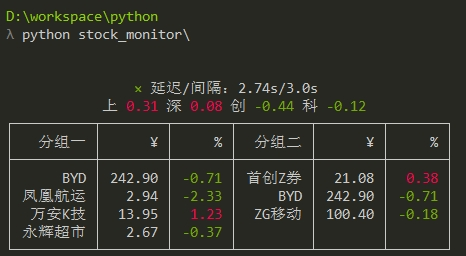
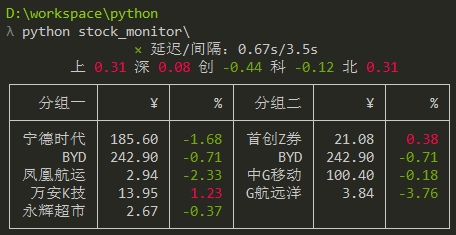
stock code verify

Changed region(s): [[0.0, 0.0298, 1.0, 0.983]]

diff --git a/__main__.py b/__main__.py
@@ -2,11 +2,13 @@ import os
 import json
 import time
 import datetime
+import traceback
 from rich.live import Live
 
 from models import *
 from parse import *
 from print import prepare_live_print, print_stocks
+import utils
 
 # load stocks.json
 def load_config_json() -> dict | None:
@@ -20,6 +22,7 @@ def load_config_json() -> dict | None:
   return None
 
 
+# check market is open or not
 def check_market_open(data_store: DataStore) -> datetime.datetime:
   now = datetime.datetime.today()
   if now.weekday() < 6 and now.hour in [9, 10, 11, 13, 14, 15]:
@@ -53,8 +56,11 @@ def main() -> None:
   else:
     data_store.stock_groups = parse_stock_groups_from_local(cfg)
 
-  for market_index_code in cfg["market_indices"]:
-    data_store.market_indices.stocks.append(Stock(market_index_code))
+  for code in cfg["market_indices"]:
+    if utils.verify_stock_code(code, is_market_index=True):
+      data_store.market_indices.stocks.append(Stock(code))
+    else:
+      print(f"bad stock code: {code}, ignore")
   
   data_store.all_stocks = data_store.market_indices.stocks.copy()
   stock_codes: list = list(map(lambda s: s.code, data_store.all_stocks))
@@ -66,17 +72,21 @@ def main() -> None:
       else:
         data_store.all_stocks.append(group.stocks[i])
         stock_codes.append(group.stocks[i].code)
-  stock_codes = ",".join(stock_codes)
   if len(stock_codes) <= 0:
     return
   
-  print("\n")
+  full_codes = ""
+  for code in stock_codes:
+    full_codes += utils.add_sh_sz_prefix(code) + ","
+  full_codes = full_codes[:-1]
+  # print(f"full_codes={full_codes}\n")
+
   live_print: Live = prepare_live_print()
   data_store.market_open = True
   while data_store.market_open:
       try:
           t_req_start = check_market_open(data_store)
-          stock_info_content = get_stock_infos(stock_codes, proxy)
+          stock_info_content = get_stock_infos(full_codes, proxy)
           if not stock_info_content:
             continue
 
@@ -86,14 +96,15 @@ def main() -> None:
           parse_stock_infos(cfg, data_store, stock_info_content)
           print_stocks(live_print, data_store)
           
-          t_next_req = datetime.datetime.fromtimestamp(
-            t_req_start.timestamp() + data_store.interval_seconds)
-          if t_req_end < t_next_req:
-            time.sleep((t_next_req - t_req_end).total_seconds())
+          if data_store.market_open:
+            t_next_req = datetime.datetime.fromtimestamp(
+              t_req_start.timestamp() + data_store.interval_seconds)
+            if t_req_end < t_next_req:
+              time.sleep((t_next_req - t_req_end).total_seconds())
       except KeyboardInterrupt:
         data_store.market_open = False
-      except Exception as e:
-        print(e)
+      except Exception:
+        traceback.print_exc()
         data_store.market_open = False
 
 # run

diff --git a/utils.py b/utils.py
@@ -1,0 +1,26 @@
+import re
+
+stock_code_pattern = re.compile(r'^(300[\d]{3}|688[\d]{3}|60[\d]{4}|00[\d]{4}|8[\d]{5})$')
+
+# verify stock code is valid or not
+def verify_stock_code(stock_code: str, is_market_index: bool = False) -> bool:
+  if is_market_index:
+    return len(stock_code) == 8
+  if len(stock_code) == 8:
+    if stock_code.startswith("sh") or stock_code.startswith("sz") or stock_code.startswith("bj"):
+      return verify_stock_code(stock_code[2:])
+    else:
+      return False
+  if len(stock_code) == 6:
+    return stock_code_pattern.match(stock_code)
+  return False
+
+# add sh/sz prefix to stock code
+def add_sh_sz_prefix(stock_code: str) -> str:
+  if stock_code.startswith("6"):
+    return "sh" + stock_code
+  elif stock_code.startswith("0") or stock_code.startswith("3"):
+    return "sz" + stock_code
+  elif stock_code.startswith("8"):
+    return "bj" + stock_code
+  return stock_code

diff --git a/print.py b/print.py
@@ -28,10 +28,10 @@ def colorize(data_store: DataStore, stock: Stock, text: any) -> str:
 
 # build table
 def build_stocks_table(data_store: DataStore) -> Table:
-  title = "[#ff8888]○[/]" if data_store.market_open else "[green]×[/]"
+  title = "[#ff8888]●[/]" if data_store.market_open else "[green]×[/]"
   title += f" 延迟/间隔：{format_num(data_store.network_latency)}s/{data_store.interval_seconds}s\n"
   for s in data_store.market_indices.stocks:
-    title += f" {s.name[0:1]} {colorize(data_store, s, s.amplitude)}"
+    title += f" {s.name[0]} {colorize(data_store, s, s.amplitude)}"
 
   table = Table(show_header=True, title=title)
   

diff --git a/parse.py b/parse.py
@@ -33,7 +33,7 @@ def hide_stock_name(cfg: dict, name: str) -> str:
   for k, v in hidings.items():
     key = str(k).strip()
     value = str(v).strip()
-    if len(key) > 1 and len(value) > 1:
+    if len(key) > 0 and len(value) > 0:
       if key.startswith("*"):
         key = key[1:]
         if name.endswith(key):
@@ -66,7 +66,7 @@ def parse_stock_infos(cfg: dict, data_store: DataStore, content: str) -> None:
       stock = data_store.all_stocks[i]
     else:
       for s in data_store.all_stocks:
-        if (s.code.endswith(code)):
+        if s.code.endswith(code):
           stock = s
           break
 

diff --git a/models.py b/models.py
@@ -1,3 +1,5 @@
+import utils
+
 # Stock class
 class Stock:
   def __init__(self, code: str) -> None:
@@ -19,7 +21,10 @@ class StockGroup:
 
     if stock_codes:
       for code in stock_codes:
-        self.stocks.append(Stock(code))
+        if utils.verify_stock_code(code):
+          self.stocks.append(Stock(code[-6:]))
+        else:
+          print(f"bad stock code: {code}, ignore")
 
   def __str__(self) -> str:
     return f"{self.name}({len(self.stocks)})"

diff --git a/README.md b/README.md
@@ -1,8 +1,8 @@
-### 控制台实时展示大A行情，摸鱼神器
+### 控制台实时展示大A行情
 ![screenshot](./screenshot.png)
 
 ### Features
-- 支持展示市场指数。
+- 支持展示沪深京三市主要指数、个股。
 - 支持个股分组。
 - 涨跌幅可区分红绿着色，也可不区分。
 - 开市时段，自动刷新查询，可配置查询间隔。闭市时段，查询一次后结束。
@@ -10,13 +10,14 @@
 
 ### Usage
 - 需要Python 3, 并且先`pip install`安装`requests`, `requests[socks]`, `rich`三个库。
+- 编辑`Config.json`中的`local_stock_groups`个股分组，个股代码的sh/sz/bj前缀建议加、也可不加。
 - 用任意命令行终端运行本仓库即可，比如Windows的cmd或Powershell。
 
 ### Config.json
 - `proxy`: 如果担心公司抓包，可连接代理转移网络流量，否则请删除、留空白。
 - `eastmoney`: 东财网页版的配置项，用来获取你的东财账号的自选股，暂未实现。
 - `colorize`: 涨跌幅是否区分红绿着色。
-- `interval_seconds`: 请求间隔，单位秒，请求太频繁可能被远端屏蔽。
-- `market_indices`: 市场主要指数，名字将缩略只展示首汉字。
+- `interval_seconds`: 请求间隔，单位秒，支持小数，请求太频繁可能被远端屏蔽。
+- `market_indices`: 市场主要指数，代码必须加sh/sz/bj前缀，名字将缩略只展示首汉字。
 - `local_stock_groups`: 本地配置个股和分组。
-- `stock_name_hidings`: 个股名称隐藏，尽量减少被路过人发现。
+- `stock_name_hidings`: 个股名称隐藏，尽量减少被路人发现。
